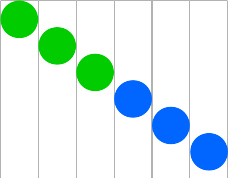
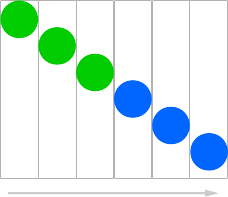
JPEG does a better job of not butchering the images , but they don't look transparent...

diff --git a/multiple-drafts-dennett-non-monotonic.md b/multiple-drafts-dennett-non-monotonic.md
@@ -52,7 +52,7 @@ moving spot, when does the colour change seem to occur?
 
 | Shown         | Reported      |
 |--------------:|--------------:|
-| ![Wibble](/images/color-phi-1.png) | ![Wibble](/images/color-phi-2.png) |
+| ![Wibble](/images/color-phi-1.png) | ![Wibble](/images/color-phi-2.jpg) |
 
 The diagram on the right above shows how the colour-change appears: the
 spot seems to change colour mid-trajectory, at a spatio-temporal
